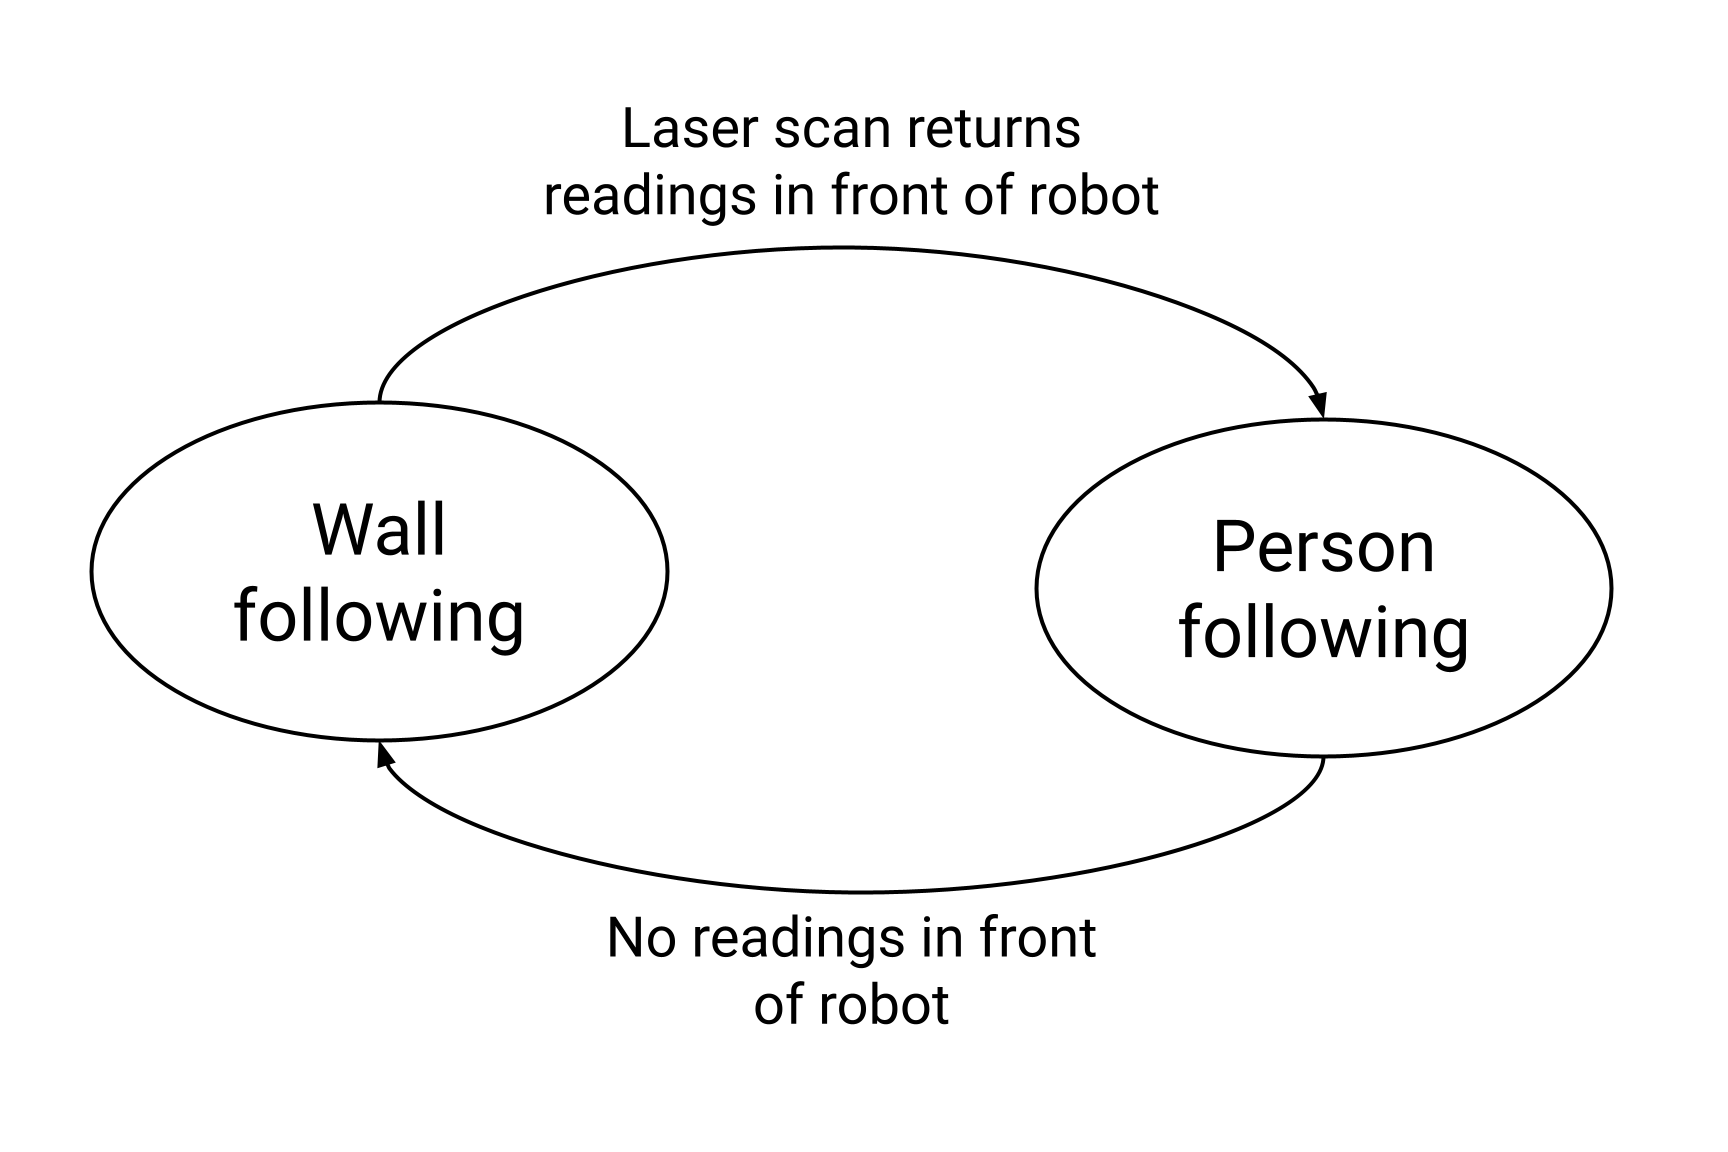
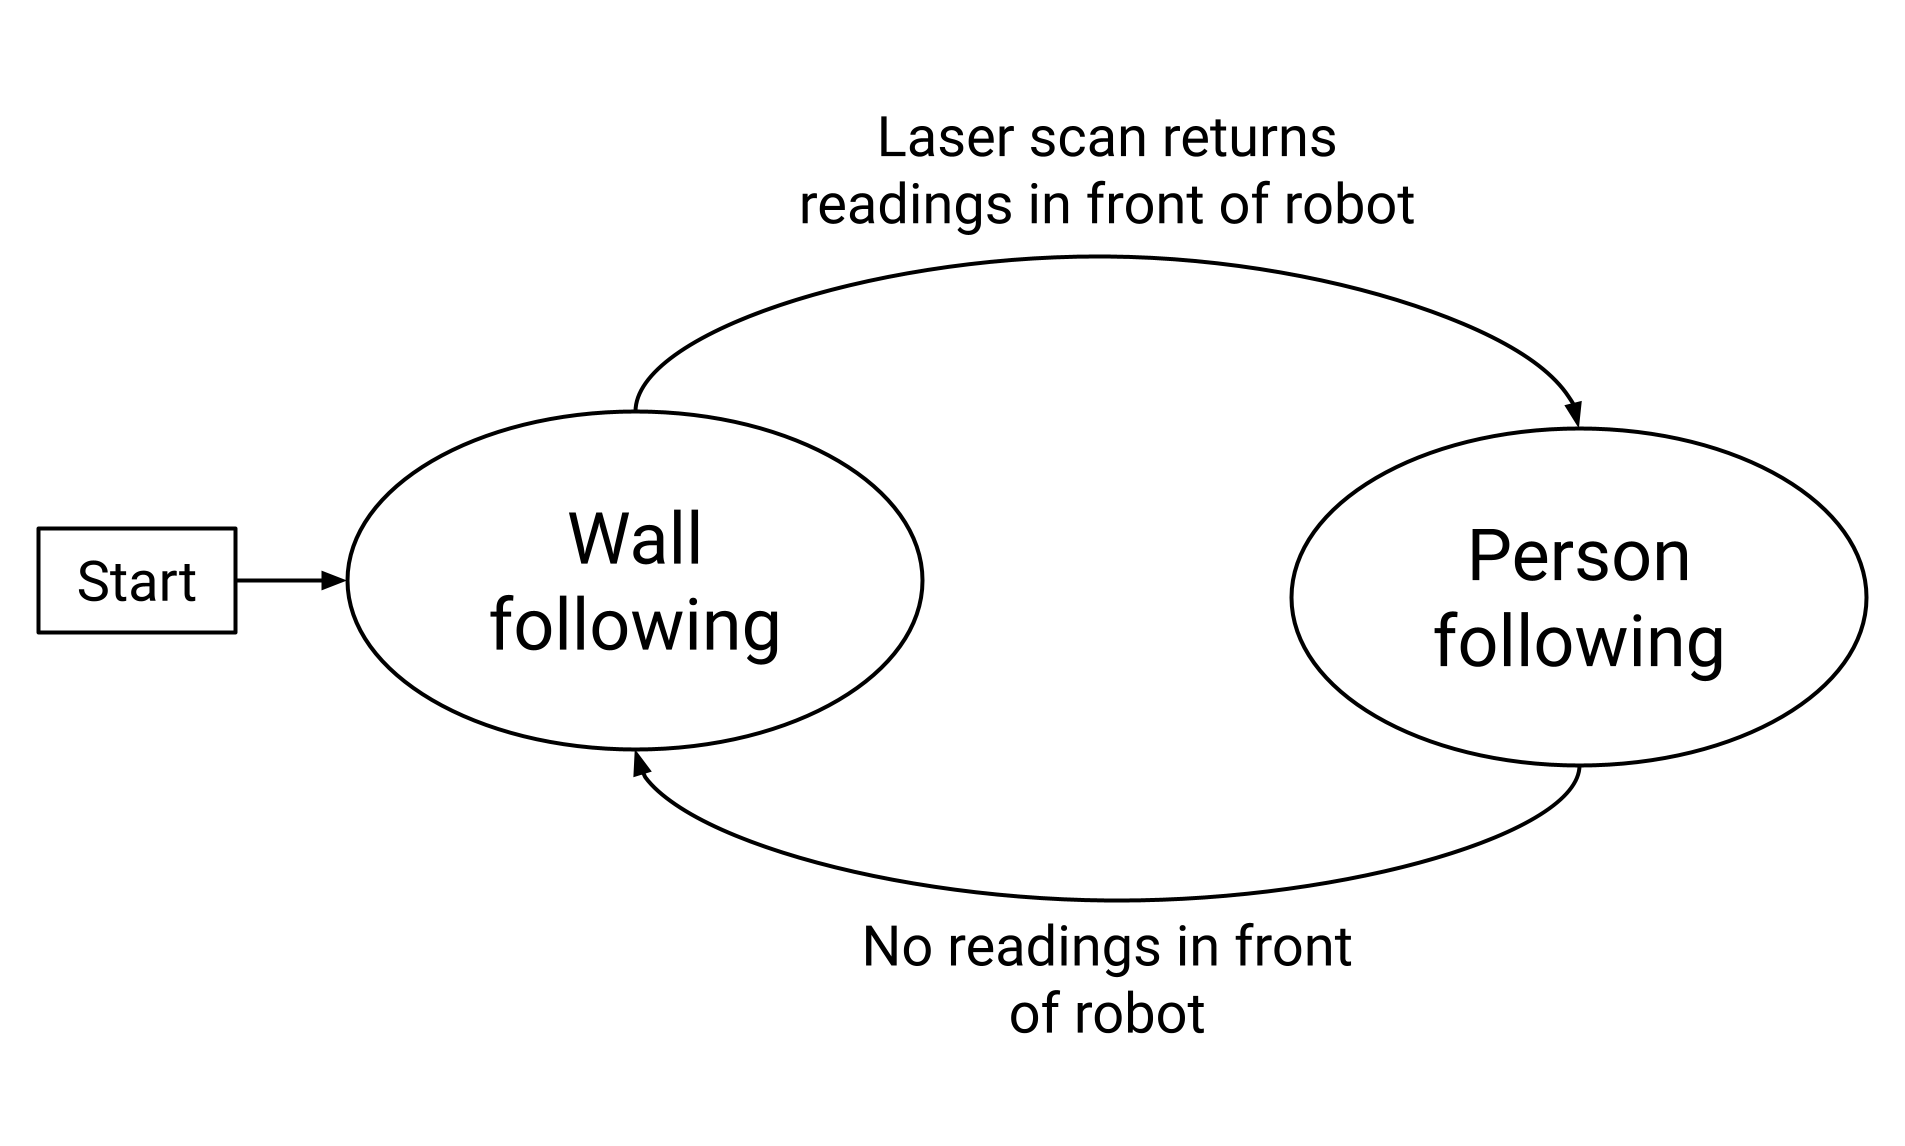
Edited writeup

diff --git a/README.md b/README.md
@@ -121,6 +121,15 @@ For this script, I separated the scan processing and velocity commands into sepa
 
 <a id="finite_state_controller"></a>
 ## [Finite State Controller](/warmup_project/warmup_project/finite_state_controller.py)
+<p align="center">
+    <img src="images/finite_state_diagram.png"> <br>
+    Figure 4: Finite-state diagram
+</p>
+
+<p align="center">
+    <img src="images/finite_state_controller.png"> <br>
+    Figure 5: Person following state
+</p>
 
 # Reflection
 I chose to work alone so that I could work on every aspect of this project and build an intuition for robot programming. While I do think I gained what I wanted from the experience, completing the entire project by myself - especially with a lack of experience - took much longer than the project was supposed to.
